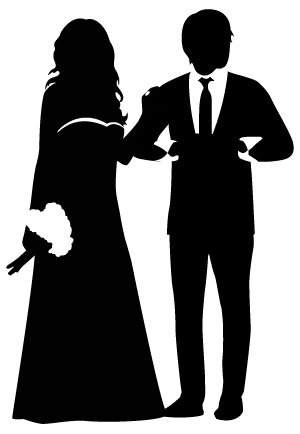
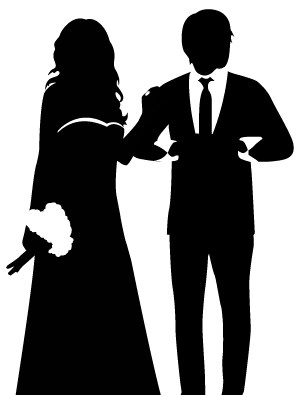
cleaned up a few images and added more info under the wedding venue section

Changed region(s): [[0.0, 0.0304, 0.99, 1.0], [0.66, 0.0, 0.75, 0.0304], [0.33, 0.0608, 0.36, 0.0911]]

diff --git a/stylesheets/layout.css b/stylesheets/layout.css
@@ -58,6 +58,7 @@ h3, h5 {
 
 a {
   color: #b1f3a9;
+  font-weight: 700;
 }
 
 a:visited {
@@ -69,7 +70,7 @@ a:hover {
 }
 
 p {
-  font-size: 20px;
+  font-size: 16px;
   font-weight: 400;
   margin: 5px 5px 20px 5px;
 }
@@ -147,6 +148,10 @@ input[type="radio"]:focus {
   color: #e4e4dc;
 }
 
+.block img {
+  border: 2px solid #e4e4dc;
+}
+
 .button, button, input[type="submit"], input[type="reset"], input[type="button"] {
   color: #352525;
   font-family: 'Alegreya SC', serif;
@@ -175,6 +180,14 @@ input[type="radio"]:focus {
 
 .button:visited, button:visited, input[type="submit"]:visited, input[type="reset"]:visited, input[type="button"]:visited {
   color: #352525;
+}
+
+.alignright {
+  float: right;
+}
+
+.alignleft {
+  float: left;
 }
 
 /* #Page Styles
@@ -288,7 +301,7 @@ input[type="radio"]:focus {
 
 #location #wedding-info {
   background-image: url('../images/brideandgroom.png');
-  background-position: top right;
+  background-position: 100% 20px;
   background-repeat: no-repeat;
   margin-bottom: 20px;
   font-size: 120%;
@@ -298,10 +311,25 @@ input[type="radio"]:focus {
   padding-right: 240px;
 }
 
+#location #wedding-info .ponte {
+  float: left;
+  margin: 10px 10px 10px 0px;
+}
+
 #location #main-address {
   background-color: rgba(0,0,0,.8);
   border: 1px solid #FFF;
   color: #FFF;
+}
+
+#location #wedding-info .links {
+  margin-bottom: 0px;
+  clear: both;
+}
+
+#location #wedding-info .links li {
+  display: inline-block;
+  margin-right: 20px;
 }
 
 #location h4 {
@@ -338,9 +366,8 @@ input[type="radio"]:focus {
   line-height: 18px;
 }
 
-#location a {
+#location #accomodations a {
   display: block;
-  font-weight: 700;
 }
 
 #rsvp {
@@ -428,10 +455,18 @@ input[type="radio"]:focus {
 ================================================== */
 
 	/* Smaller than standard 960 (devices and browsers) */
-	@media only screen and (max-width: 959px) {}
+	@media only screen and (max-width: 959px) {
+	  #location #accomodations .block {
+      height: 180px;
+    }
+	}
 
 	/* Tablet Portrait size to standard 960 (devices and browsers) */
-	@media only screen and (min-width: 768px) and (max-width: 959px) {}
+	@media only screen and (min-width: 768px) and (max-width: 959px) {
+	  #location #accomodations .block {
+      height: 300px;
+    }
+	}
 
 	/* All Mobile Sizes (devices and browser) */
 	@media only screen and (max-width: 767px) {
@@ -476,12 +511,31 @@ input[type="radio"]:focus {
       background-image: url('../images/main_mobile.jpg');
     }
     
+    #location #wedding-info {
+      background-position: right bottom;
+    }
+    
     #location #wedding-info .block {
       padding-right: 10px;
     }
     
+    #location #wedding-info .ponte {
+      display: block;
+      float: none;
+      margin: 10px auto;
+      max-width: 300px;
+      width: 98%;
+    }
+    
+    #location #wedding-info .links li {
+      text-align: center;
+      display: block;
+      margin: 10px auto;
+    }
+    
     .panel {
       padding-top: 140px;
+    }
 	}
 
 	/* Mobile Landscape Size to Tablet Portrait (devices and browsers) */
@@ -489,22 +543,3 @@ input[type="radio"]:focus {
 
 	/* Mobile Portrait Size to Mobile Landscape Size (devices and browsers) */
 	@media only screen and (max-width: 479px) {}
-
-
-/* #Font-Face
-================================================== */
-/* 	This is the proper syntax for an @font-face file
-		Just create a "fonts" folder at the root,
-		copy your FontName into code below and remove
-		comment brackets */
-
-/*	@font-face {
-	    font-family: 'FontName';
-	    src: url('../fonts/FontName.eot');
-	    src: url('../fonts/FontName.eot?iefix') format('eot'),
-	         url('../fonts/FontName.woff') format('woff'),
-	         url('../fonts/FontName.ttf') format('truetype'),
-	         url('../fonts/FontName.svg#webfontZam02nTh') format('svg');
-	    font-weight: normal;
-	    font-style: normal; }
-*/

diff --git a/index.html b/index.html
@@ -81,13 +81,16 @@
       <div id="wedding-info" class="sixteen columns">
         <div class="block">
           <h4>We will be tying the knot at...</h4>
+          <img class="ponte" src="images/ponte_barn.jpg" alt="Ponte Barn" />
           <h5>Ponte Family Estate Winery</h5>
           <address>35053 Rancho California Road<br/>
             Temecula, California 92591</address>
-          <h5>Directions</h5>
-          <ul>
-            <li>From San Diego International Airport: Approximately 1 hour</li>
-            <li>From Los Angeles International Airport: Approximately 1 hour and 35 minutes</li>
+          <h5>Information</h5>
+          <p>Temecula is approximately 50 minutes north from San Diego. San Diego International is the closest major airport to the venue. If you have any other questions shoot us an email at: <a href="mailto:wedding@jcomingdeer.com">wedding@jcomingdeer.com</a></p>
+          <ul class="links">
+            <li><a href="http://www.pontewinery.com">PonteWinery.com</a></li>
+            <li><a href="tel:951-694-8855">951-694-8855</a></li>
+            <li><a href="http://g.co/maps/86v8y">Google Maps</a></li>
           </ul>
         </div>
       </div>
@@ -103,7 +106,6 @@
             <a href="tel:951-694-8855">951-694-8855</a>
             <ul>
               <li><em>Proximity:</em> Walking</li>
-              <li><em>Cost:</em> $$$</li>
             </ul>
           </div>
         </li>
@@ -116,7 +118,6 @@
             <a href="tel:951-587-9463">951-587-9463</a>
             <ul>
               <li><em>Proximity:</em> Walking</li>
-              <li><em>Cost:</em> $$$</li>
             </ul>
           </div>
         </li>
@@ -125,12 +126,11 @@
             <h4>Embassy Suites Hotel</h4>
             <address>29345 Rancho California Rd.<br>
               Temecula, California 92591</address>
-            <a href="http://embassysuites1.hilton.com/en_US/es/hotel/LAXTMES-Embassy-Suites-Temecula-Valley-Wine-Country-California/index.do">embassysuites1.hilton.com</a>
+            <a href="http://embassysuites1.hilton.com/en_US/es/hotel/LAXTMES-Embassy-Suites-Temecula-Valley-Wine-Country-California/index.do">hilton.com</a>
             <a href="tel:951-676-5656">951-676-5656</a>
             <ul>
-              <li><em>Proximity:</em> 13 minute drive</li>
-              <li><em>Cost:</em> $$</li>
-              <li><em>Discount:</em> Blocked out rooms</li>
+              <li><em>Proximity:</em> 5.9 miles from venue</li>
+              <li>Reserved rooms at a discounted rate</li>
             </ul>
           </div>
         </li>
@@ -142,8 +142,7 @@
             <a href="http://www.temeculacreekinn.com/">temeculacreekinn.com</a>
             <a href="tel:951-694-1000">951-694-1000</a>
             <ul>
-              <li><em>Proximity:</em> 17 minute drive</li>
-              <li><em>Cost:</em> $$$</li>
+              <li><em>Proximity:</em> 8.7 miles from venue</li>
             </ul>
           </div>
         </li>
@@ -155,8 +154,7 @@
             <a href="http://www.marriott.com/hotels/travel/ontrt-fairfield-inn-and-suites-temecula/">marriott.com</a>
             <a href="tel:951-587-9800">951-587-9800</a>
             <ul>
-              <li><em>Proximity:</em> 19 minute drive</li>
-              <li><em>Cost:</em> $</li>
+              <li><em>Proximity:</em> 6.7 miles from venue</li>
             </ul>
           </div>
         </li>
@@ -168,8 +166,7 @@
             <a href="http://www.lq.com/lq/properties/propertyProfile.do?propId=6113">lq.com</a>
             <a href="tel:951-296-1003">951-296-1003</a>
             <ul>
-              <li><em>Proximity:</em> 19 minute drive</li>
-              <li><em>Cost:</em> $</li>
+              <li><em>Proximity:</em> 8.4 miles from venue</li>
             </ul>
           </div>
         </li>
